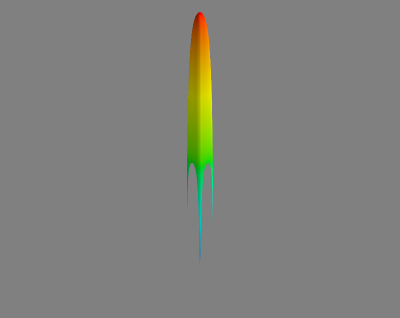
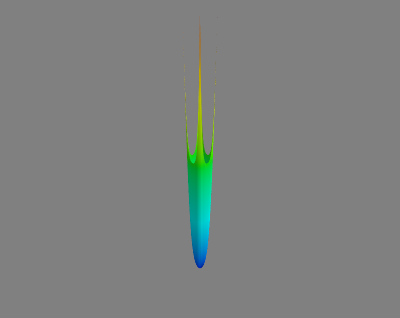
Fix sign typo in cosh potential

Changed region(s): [[0.45, 0.0283, 0.54, 0.8491]]

diff --git a/src/WaveBlocksND/PotentialLibrary.py b/src/WaveBlocksND/PotentialLibrary.py
@@ -172,7 +172,7 @@ cos_osc_add_2d["number_levels"] = 1
 # A potential consisting of a hyperbolic cosine
 cosh_osc_2d = {}
 cosh_osc_2d["variables"] = ["x", "y"]
-cosh_osc_2d["potential"] = "ax * (1 - cosh(bx*x)) + ay * (1 - cosh(by*y))"
+cosh_osc_2d["potential"] = "ax * (1 + cosh(bx*x)) + ay * (1 + cosh(by*y))"
 cosh_osc_2d["defaults"] = {"ax":"1", "bx":"1", "ay":"1", "by":"1"}
 cosh_osc_2d["number_levels"] = 1
 

diff --git a/doc/source/potlib/potentials.rst b/doc/source/potlib/potentials.rst
@@ -487,7 +487,7 @@ Potential ``cos_osc_rotsym_2d``
 Potential ``cosh_osc_2d``
 ^^^^^^^^^^^^^^^^^^^^^^^^^
 
-* Formula: :math:`V(x) = ax \left(- \cosh{\left (bx x \right )} + 1\right) + ay \left(- \cosh{\left (by y \right )} + 1\right)`
+* Formula: :math:`V(x) = ax \left(\cosh{\left (bx x \right )} + 1\right) + ay \left(\cosh{\left (by y \right )} + 1\right)`
 
 * Variables: :math:`x`, :math:`y`
 
